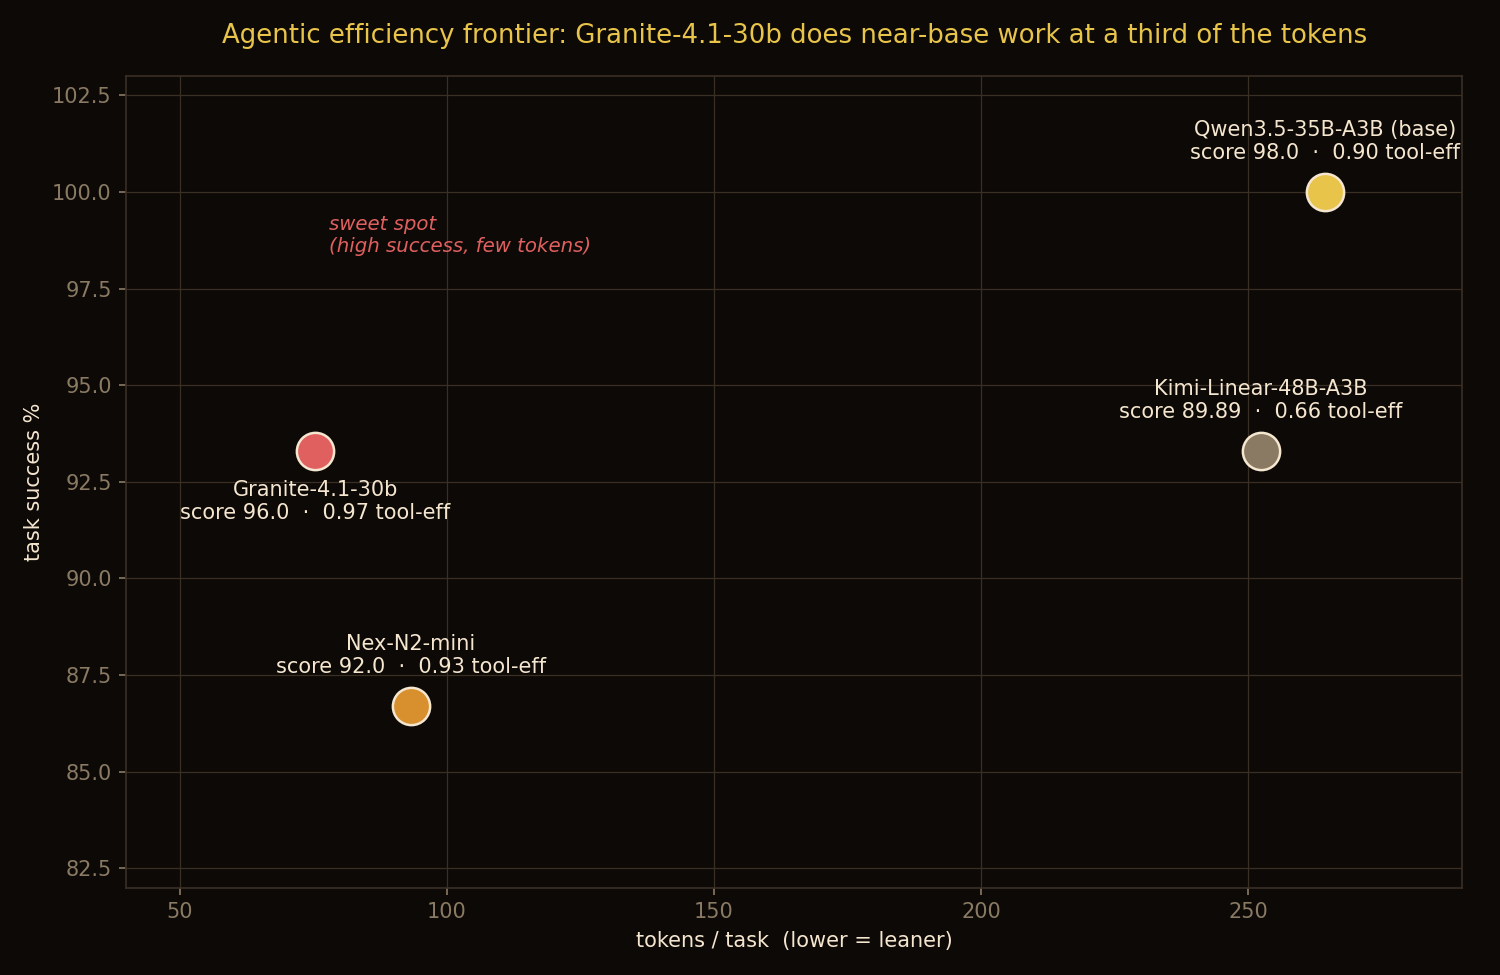
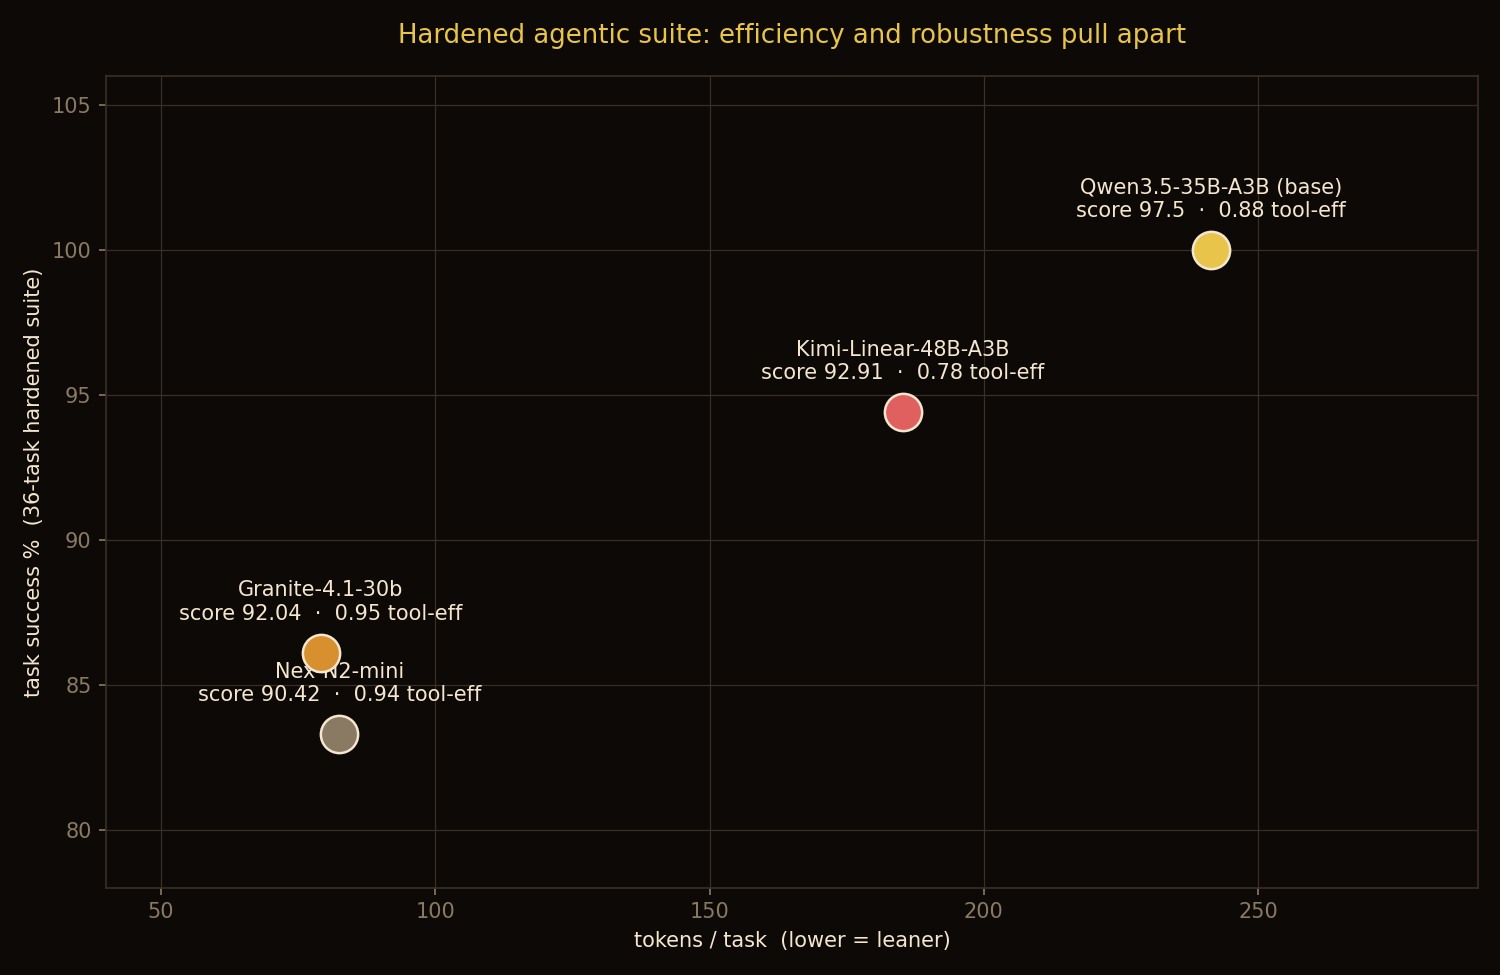
feat(agentic): hardened leaderboard (40 tasks, 5 axes + long-context) republished
Re-ran all 4 models on the hardened suite + 32K/128K long-context tiers. Board
reshuffled: error-recovery is the discriminating axis (Granite 2/6, fell 1st->3rd);
long-context splits on arch (A3B Kimi-Linear/Nex hold 128K, dense Granite walls).
3 charts (frontier/score/long-ctx), report, leaderboard regen + HF republish.

diff --git a/scripts/chart_agentic_leaderboard.py b/scripts/chart_agentic_leaderboard.py
@@ -1,6 +1,6 @@
-"""Agentic Score leaderboard (Gold & Crimson v2) across 4 models on the native
-tool-calling bench. (1) the efficiency frontier: success % vs tokens/task — the
-sweet spot is top-LEFT (high success, few tokens). (2) Agentic Score bars."""
+"""Agentic Score leaderboard (Gold & Crimson v2) — hardened 36-task suite + long-context.
+(1) efficiency frontier: success % vs tokens/task. (2) Agentic Score bars.
+(3) long-context reach: needle success at 32K vs 128K, with VRAM walls marked."""
 import json
 from pathlib import Path
 import matplotlib.pyplot as plt
@@ -9,33 +9,37 @@ import numpy as np
 BG, GOLD, CRIMSON, TEXT, GRID, MUTE = ("#0d0906", "#e8c44a", "#e06060", "#f5e6d0", "#3a2f25", "#8a7a64")
 AMBER = "#d8902f"
 
-# slug, display, color  (Granite highlighted crimson = the find)
+# Kimi highlighted crimson = the hardened-suite find (best all-rounder + holds 128K)
 MODELS = [
-    ("granite-4-1-30b",     "Granite-4.1-30b",      CRIMSON),
+    ("kimi-linear-48b-a3b", "Kimi-Linear-48B-A3B",  CRIMSON),
     ("qwen3-5-35b-base",    "Qwen3.5-35B-A3B (base)", GOLD),
-    ("nex-n2-mini",         "Nex-N2-mini",          AMBER),
-    ("kimi-linear-48b-a3b", "Kimi-Linear-48B-A3B",  MUTE),
+    ("granite-4-1-30b",     "Granite-4.1-30b",      AMBER),
+    ("nex-n2-mini",         "Nex-N2-mini",          MUTE),
 ]
-D = {slug: json.loads(Path(f"results/{slug}/agentic_native.json").read_text()) for slug, _, _ in MODELS}
+D = {s: json.loads(Path(f"results/{s}/agentic_native.json").read_text()) for s, _, _ in MODELS}
 
-# --- Chart 1: efficiency frontier (success vs tokens/task) ---
+
+def lc(slug, tier):
+    f = Path(f"results/{slug}/agentic_longctx_{tier}.json")
+    if not f.exists():
+        return None
+    d = json.loads(f.read_text())
+    return "wall" if d.get("reach") == "wall" else d["success_pct"]
+
+
+# --- Chart 1: efficiency frontier ---
 fig, ax = plt.subplots(figsize=(10, 6.5), facecolor=BG); ax.set_facecolor(BG)
 for slug, name, color in MODELS:
     d = D[slug]
     x, y = d["tokens_per_task"], d["task_success_pct"]
     ax.scatter([x], [y], s=320, color=color, edgecolor=TEXT, zorder=4, linewidth=1.2)
-    dy = -1.6 if name.startswith("Granite") else 1.1
-    va = "top" if dy < 0 else "bottom"
     ax.annotate(f"{name}\nscore {d['score']}  ·  {d['tool_eff']:.2f} tool-eff",
-                (x, y), color=TEXT, fontsize=10, ha="center", va=va,
-                xytext=(0, 14 if dy > 0 else -14), textcoords="offset points")
-ax.annotate("sweet spot\n(high success, few tokens)", (78, 99.4), color=CRIMSON, fontsize=9.5,
-            ha="left", va="top", style="italic")
+                (x, y), color=TEXT, fontsize=10, ha="center", va="bottom",
+                xytext=(0, 14), textcoords="offset points")
 ax.set_xlabel("tokens / task  (lower = leaner)", color=TEXT)
-ax.set_ylabel("task success %", color=TEXT)
-ax.set_xlim(40, 290); ax.set_ylim(82, 103)
-ax.set_title("Agentic efficiency frontier: Granite-4.1-30b does near-base work at a third of the tokens",
-             color=GOLD, pad=16, fontsize=12.5)
+ax.set_ylabel("task success %  (36-task hardened suite)", color=TEXT)
+ax.set_xlim(40, 290); ax.set_ylim(78, 106)
+ax.set_title("Hardened agentic suite: efficiency and robustness pull apart", color=GOLD, pad=16, fontsize=12.5)
 for s in ax.spines.values(): s.set_color(GRID)
 ax.tick_params(colors=MUTE); ax.grid(True, color=GRID, linewidth=0.6, zorder=0)
 fig.tight_layout(); fig.savefig("reports/agentic-leaderboard-frontier.png", dpi=150, facecolor=BG)
@@ -43,20 +47,42 @@ print("wrote reports/agentic-leaderboard-frontier.png")
 
 # --- Chart 2: Agentic Score bars ---
 fig, ax = plt.subplots(figsize=(10, 6), facecolor=BG); ax.set_facecolor(BG)
-xs = np.arange(len(MODELS))
-vals = [D[s]["score"] for s, _, _ in MODELS]
-cols = [c for _, _, c in MODELS]
-ax.bar(xs, vals, 0.6, color=cols, edgecolor=TEXT, zorder=3)
-for i, (s, name, c) in enumerate(MODELS):
+order = sorted(MODELS, key=lambda m: D[m[0]]["score"], reverse=True)
+xs = np.arange(len(order))
+ax.bar(xs, [D[s]["score"] for s, _, _ in order], 0.6, color=[c for _, _, c in order], edgecolor=TEXT, zorder=3)
+for i, (s, name, c) in enumerate(order):
     d = D[s]
     ax.annotate(f"{d['score']}", (i, d["score"]), color=TEXT, ha="center", fontsize=13, fontweight="bold",
                 xytext=(0, 14), textcoords="offset points")
     ax.annotate(f"{d['task_success_pct']:.0f}% · {d['tokens_per_task']:.0f} tok",
                 (i, d["score"]), color=MUTE, ha="center", fontsize=9, xytext=(0, 2), textcoords="offset points")
-ax.set_xticks(xs); ax.set_xticklabels([n for _, n, _ in MODELS], color=TEXT, fontsize=10)
+ax.set_xticks(xs); ax.set_xticklabels([n for _, n, _ in order], color=TEXT, fontsize=10)
 ax.set_ylabel("Agentic Score (0-100)", color=TEXT); ax.set_ylim(0, 112)
-ax.set_title("Agentic Score — native tool-calling bench, one RTX 5090", color=GOLD, pad=16)
+ax.set_title("Agentic Score — hardened native tool-calling suite, one RTX 5090", color=GOLD, pad=16)
 for s in ax.spines.values(): s.set_color(GRID)
 ax.tick_params(colors=MUTE); ax.grid(True, axis="y", color=GRID, linewidth=0.6, zorder=0)
 fig.tight_layout(); fig.savefig("reports/agentic-leaderboard-score.png", dpi=150, facecolor=BG)
 print("wrote reports/agentic-leaderboard-score.png")
+
+# --- Chart 3: long-context reach (needle success at 32K vs 128K) ---
+fig, ax = plt.subplots(figsize=(10, 6), facecolor=BG); ax.set_facecolor(BG)
+xs = np.arange(len(MODELS)); w = 0.38
+v32 = [lc(s, "32k") for s, _, _ in MODELS]
+v128 = [lc(s, "128k") for s, _, _ in MODELS]
+ax.bar(xs - w/2, [0 if v == "wall" or v is None else v for v in v32], w, color=GOLD, edgecolor=TEXT, zorder=3, label="32K")
+ax.bar(xs + w/2, [0 if v == "wall" or v is None else v for v in v128], w, color=CRIMSON, edgecolor=TEXT, zorder=3, label="128K")
+for i, (v, off) in enumerate([(v, -w/2) for v in v32] + [(v, w/2) for v in v128]):
+    mi = i % len(MODELS)
+    val = (v32 if i < len(MODELS) else v128)[mi]
+    if val == "wall":
+        ax.annotate("VRAM\nwall", (mi + off, 3), color=MUTE, ha="center", va="bottom", fontsize=8.5, style="italic")
+    elif val is not None:
+        ax.annotate(f"{val:.0f}%", (mi + off, val), color=TEXT, ha="center", fontsize=10, xytext=(0, 3), textcoords="offset points")
+ax.set_xticks(xs); ax.set_xticklabels([n for _, n, _ in MODELS], color=TEXT, fontsize=10)
+ax.set_ylabel("needle success %", color=TEXT); ax.set_ylim(0, 112)
+ax.set_title("Long-context reach: who finds the needle at 32K vs 128K on one 5090", color=GOLD, pad=16)
+for s in ax.spines.values(): s.set_color(GRID)
+ax.tick_params(colors=MUTE); ax.grid(True, axis="y", color=GRID, linewidth=0.6, zorder=0)
+ax.legend(facecolor=BG, edgecolor=GRID, labelcolor=TEXT, loc="lower left")
+fig.tight_layout(); fig.savefig("reports/agentic-leaderboard-longctx.png", dpi=150, facecolor=BG)
+print("wrote reports/agentic-leaderboard-longctx.png")

diff --git a/scripts/build_agentic_leaderboard.py b/scripts/build_agentic_leaderboard.py
@@ -103,10 +103,14 @@ leaner). A sub-5% score gap is a tie.*
 
 ![agentic score](agentic-leaderboard-score.png)
 
+![long-context reach](agentic-leaderboard-longctx.png)
+
 ## The Agentic Score (0–100)
 
-Aggregate over 15 deterministic tasks across three axes (tool-use chains, multi-step dependencies,
-sandboxed coding), weighted:
+Aggregate over 36 deterministic short-context tasks across five axes (tool-use chains, multi-step
+dependencies, sandboxed coding, **error-recovery**, **distractor-robustness**), weighted as below.
+A separate **long-context** axis (needle-in-a-document at 32K / 128K) is reported in the `lc@` columns,
+not blended into the score (so a 128K VRAM wall doesn't corrupt it):
 
 | axis | weight | measures |
 |---|---|---|

diff --git a/reports/agentic-leaderboard.md b/reports/agentic-leaderboard.md
@@ -1,58 +1,63 @@
-# Agentic Score leaderboard: Granite-4.1-30b owns the efficiency frontier
+# Agentic Score leaderboard (hardened): efficiency and robustness pull apart
 
 **Rig:** one RTX 5090 32GB · llama.cpp b9562 · native OpenAI tool-calling (`--jinja`) · temp 0
-**Harness:** the rig's Agentic Score — a model-agnostic native tool-calling loop over 15 deterministic,
-programmatically-checked tasks (tool-use chains, multi-step dependencies, sandboxed coding).
-Calibration-grade; a sub-5% gap is a tie.
+**Harness (hardened):** 40 deterministic tasks — 36 across **five short-context axes** (chain, multistep,
+coding, **error-recovery**, **distractor**) scored into the Agentic Score, plus a **separate long-context
+axis** (a `read_doc` tool returns a seeded document with a buried activation code, at 32K and 128K).
+Programmatic verification; a sub-5% score gap is a tie.
 
 ## The board
 
-| model | params | Agentic Score | task success | tool-eff | tokens/task | gate |
-|---|---|---|---|---|---|---|
-| Qwen3.5-35B-A3B (base) | 35B-A3B | **98.0** | **100%** (15/15) | 0.90 | 264 | ✓ |
-| **Granite-4.1-30b** | 30B | 96.0 | 93% (14/15) | **0.97** | **75** | ✓ |
-| Nex-N2-mini | 35B-A3B | 92.0 | 87% (13/15) | 0.93 | 93 | ✓ |
-| Kimi-Linear-48B-A3B | 48B-A3B | 89.9 | 93% (14/15) | 0.66 | 252 | ✓ |
+| # | model | params | Agentic Score | success | tool-eff | tok/task | error-rec | lc@32K | lc@128K |
+|---|---|---|---|---|---|---|---|---|---|
+| 1 | Qwen3.5-35B-A3B (base) | 35B-A3B | **97.5** | 100% | 0.88 | 241 | 6/6 | 100% | 50%* |
+| 2 | **Kimi-Linear-48B-A3B** | 48B-A3B | 92.9 | 94% | 0.78 | 185 | 6/6 | 100% | **100%** |
+| 3 | Granite-4.1-30b | 30B | 92.0 | 86% | **0.95** | **79** | **2/6** | 50% | **OOM** |
+| 4 | Nex-N2-mini | 35B-A3B | 90.4 | 83% | 0.94 | 82 | 4/6 | 100% | **100%** |
 
-All four pass the native tool-calling gate, and all four nail the multi-step axis (5/5) — the spread is
-in chains, coding, and efficiency.
+## What hardening revealed (the thin 15-task board hid all of this)
 
-## The find: success and token-efficiency are *separable* axes
+**1. The board reshuffled.** Granite-4.1-30b — the previous "efficiency king" at 96 on the easy suite —
+dropped to 92.0 and 3rd. Kimi-Linear rose. A 15-task board that everyone nearly aced wasn't measuring
+the things that separate agentic models.
 
-The Agentic Score rewards completion, but the **efficiency frontier** (success vs tokens/task) is where
-the models separate:
+**2. Error-recovery is the discriminating axis.** When a tool returns an error **with a hint**
+(`record '7' not found; ids are zero-padded`, or `use https://`), the model has to adapt. Base Qwen and
+Kimi recover cleanly (6/6) — which proves the tasks are solvable — but **Granite recovers only 2/6**. It
+is lean and tight on the happy path and then doesn't adjust when a tool pushes back. This is exactly the
+failure mode single-call function-calling benchmarks (BFCL etc.) never test, and it's most of why Granite
+fell. Nex is middling (4/6).
 
-- **Granite-4.1-30b is the quiet winner.** A 30B that nobody calls an "agent model" does near-base work
-  (93% vs 100%) at **a third of the tokens** (75 vs 264) with the tightest tool use on the board (0.97 —
-  almost no wasted calls). On one 5090 it's the cheapest competent agent here, by a wide margin.
-- **Base Qwen3.5-35B still tops raw completion** (100%) but pays for it in tokens (264).
-- **Nex-N2-mini** is the lean post-train (93 tok) but lowest completion (87%) — its Adaptive Thinking
-  trades success for brevity (see the Nex report).
-- **Kimi-Linear-48B-A3B** matches Granite's success (93%) but spends **3.3x the tokens** (252) and
-  over-calls tools (0.66 tool-eff — it routinely double-calls where one call suffices).
+**3. Long-context reach splits on architecture.** The A3B models — Kimi-Linear (linear attention) and
+Nex-N2-mini (standard A3B MoE) — both hold **100% needle-finding at 128K** on one 5090; their modest KV
+fits alongside the weights. The **dense Granite-4.1-30b walls at 128K** (OOM) and only finds the needle
+50% of the time even at 32K — the compact model is the weakest at long context. Kimi-Linear is the
+cleanest of all: 100% at both tiers, and it's the largest model on the board (48B).
 
-## Two notes worth their own line
+\* **Qwen base at 128K = 50%** with an asterisk: one of its two 128K requests returned a server-side
+**500** at the very edge of the context window (an llama.cpp hiccup, not a clean model miss); the other
+succeeded. Recorded honestly as 1/2. (The harness now guards per-task exceptions so one bad request can't
+void a tier — a fix this run forced.)
 
-**Kimi-Linear runs natively on one 5090 — a feasibility win.** Its `kimi_linear` arch (Kimi Delta
-linear-attention, 256-expert A3B MoE) is compiled into llama.cpp b9562 and loaded at full `-ngl 999`
-offload without OOM — the linear-attention KV cache is small enough that the 28GB Q4 fit the 32GB card
-with room to spare. But its architectural edge is **long context**, which this short-task bench does not
-exercise; the verbosity and over-calling are real agentic-economy observations, not a verdict on the
-model's reason for existing. A long-context agentic test is the fair follow-up.
+## No single winner
 
-**Granite's only miss was a Fibonacci off-by-one** (`coding_fib10`) — the classic indexing slip, not a
-tool-use failure. Kimi's only miss was over-thinking a trivial halving (483 tokens to fail
-`chain_config_half`) — a brevity problem, not a capability gap.
+- **Base Qwen3.5-35B** tops the Agentic Score (100% short-task success) — but it's the token glutton (241)
+  and shaky at 128K.
+- **Kimi-Linear-48B** is the best all-rounder: 2nd on score, **and the long-context champion** (100% at
+  128K). If your agent loops over big contexts, this is the pick.
+- **Granite-4.1-30b** is the cheapest competent agent on the happy path (79 tok/task, 0.95 tool-eff) but
+  **brittle**: it can't recover from tool errors and can't hold long context. Great when nothing goes
+  wrong; risky when something does.
+- **Nex-N2-mini** is lean and reaches 128K, but lowest short-task success.
 
 ## Worth it?
 
-- **Granite-4.1-30b** if you want a cheap-to-serve agent: near-base completion at a third of the tokens
-  and the tightest tool loop here. The standout of this round.
-- **Base Qwen3.5-35B** if maximum completion beats token budget.
-- **Kimi-Linear** if your workload is genuinely long-context (its real strength, untested here) — not for
-  short, token-sensitive agentic loops.
+Cheap and robust are different axes, and this suite finally measures both. Reach for **Kimi-Linear** for
+long-context agentic work, **base Qwen** when you need maximum completion and can pay the tokens, and
+**Granite** only for short, well-behaved tool loops where its efficiency shines and nothing will push back.
 
 ---
 
-*Harness: `lib/agentic/native/` in notwitcheer/llm-bench-rig (17 unit tests). Charts:
-`reports/agentic-leaderboard-frontier.png`, `reports/agentic-leaderboard-score.png`.*
+*Harness: `lib/agentic/native/` in notwitcheer/llm-bench-rig (34 unit tests). Charts:
+`agentic-leaderboard-frontier.png`, `-score.png`, `-longctx.png`. Live board:
+witcheer/agentic-score-leaderboard.*

diff --git a/leaderboard/README.md b/leaderboard/README.md
@@ -22,12 +22,12 @@ Updated **2026-06-09** · llama.cpp b9562 · `--jinja` native tool-calling · te
 
 ## Leaderboard
 
-| # | model | params | Agentic Score | success | tool-eff | tokens/task | chain | multistep | coding |
-|---|---|---|---|---|---|---|---|---|---|
-| 1 | **Qwen3.5-35B-A3B (base)** 🏆 | 35B-A3B | **98.0** | 100% | 0.90 | 264 | 5/5 | 5/5 | 5/5 |
-| 2 | **Granite-4.1-30b** | 30B | **96.0** | 93% | 0.97 | 75 | 5/5 | 5/5 | 4/5 |
-| 3 | **Nex-N2-mini** | 35B-A3B | **92.0** | 87% | 0.93 | 93 | 4/5 | 5/5 | 4/5 |
-| 4 | **Kimi-Linear-48B-A3B** | 48B-A3B | **89.89** | 93% | 0.66 | 252 | 4/5 | 5/5 | 5/5 |
+| # | model | params | Agentic Score | success | tool-eff | tokens/task | chain | multistep | coding | lc@32k | lc@128k |
+|---|---|---|---|---|---|---|---|---|---|---|---|
+| 1 | **Qwen3.5-35B-A3B (base)** 🏆 | 35B-A3B | **97.5** | 100% | 0.88 | 241 | 8/8 | 8/8 | 8/8 | 100% | 50% |
+| 2 | **Kimi-Linear-48B-A3B** | 48B-A3B | **92.91** | 94% | 0.78 | 185 | 7/8 | 7/8 | 8/8 | 100% | 100% |
+| 3 | **Granite-4.1-30b** | 30B | **92.04** | 86% | 0.95 | 79 | 8/8 | 8/8 | 7/8 | 50% | OOM |
+| 4 | **Nex-N2-mini** | 35B-A3B | **90.42** | 83% | 0.94 | 82 | 7/8 | 7/8 | 7/8 | 100% | 100% |
 
 *tool-eff = tool calls vs optimal (1.0 = no wasted calls). tokens/task = avg completion tokens (lower =
 leaner). A sub-5% score gap is a tie.*
@@ -36,10 +36,14 @@ leaner). A sub-5% score gap is a tie.*
 
 ![agentic score](agentic-leaderboard-score.png)
 
+![long-context reach](agentic-leaderboard-longctx.png)
+
 ## The Agentic Score (0–100)
 
-Aggregate over 15 deterministic tasks across three axes (tool-use chains, multi-step dependencies,
-sandboxed coding), weighted:
+Aggregate over 36 deterministic short-context tasks across five axes (tool-use chains, multi-step
+dependencies, sandboxed coding, **error-recovery**, **distractor-robustness**), weighted as below.
+A separate **long-context** axis (needle-in-a-document at 32K / 128K) is reported in the `lc@` columns,
+not blended into the score (so a 128K VRAM wall doesn't corrupt it):
 
 | axis | weight | measures |
 |---|---|---|
@@ -55,9 +59,9 @@ work. Harness + 17 unit tests: **[notwitcheer/llm-bench-rig](https://github.com/
 ## Notes per model
 
 - **Qwen3.5-35B-A3B (base)** (bartowski/Qwen_Qwen3.5-35B-A3B-GGUF): generalist base, no agentic post-train
+- **Kimi-Linear-48B-A3B** (bartowski/moonshotai_Kimi-Linear-48B-A3B-Instruct-GGUF): linear-attention; runs natively on one 5090; long-context untested here
 - **Granite-4.1-30b** (unsloth/granite-4.1-30b-GGUF): leanest competent agent on the board
 - **Nex-N2-mini** (eramax/Nex-N2-mini-gguf): agentic post-train of Qwen3.5; Adaptive Thinking
-- **Kimi-Linear-48B-A3B** (bartowski/moonshotai_Kimi-Linear-48B-A3B-Instruct-GGUF): linear-attention; runs natively on one 5090; long-context untested here
 
 ## How it grows
 
